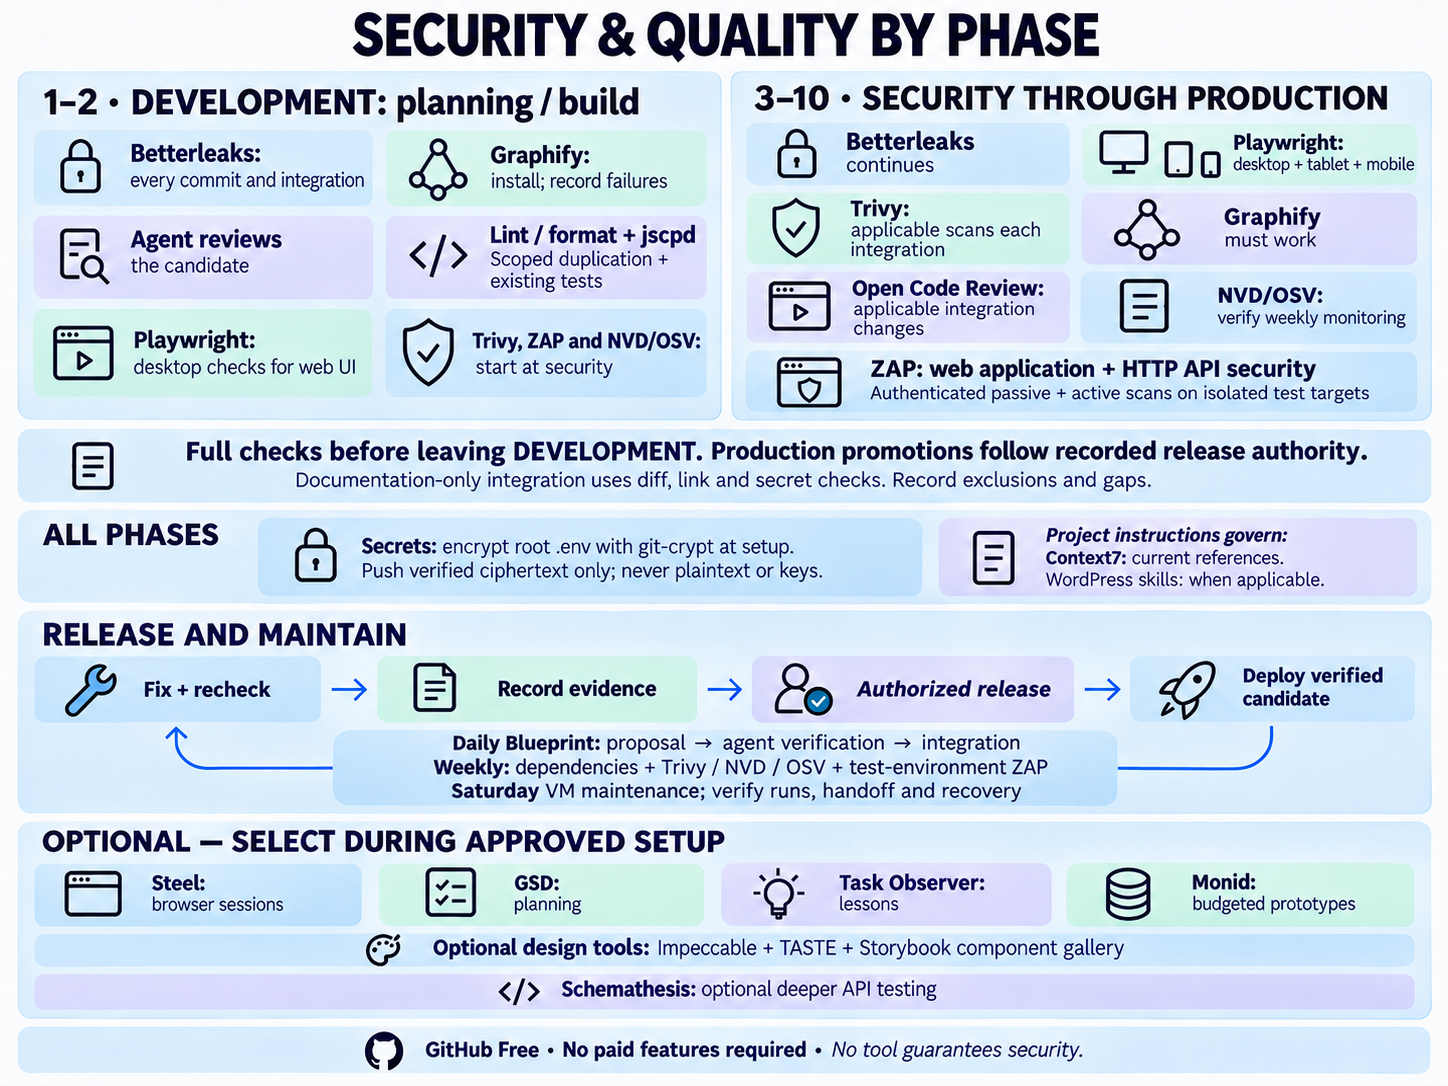
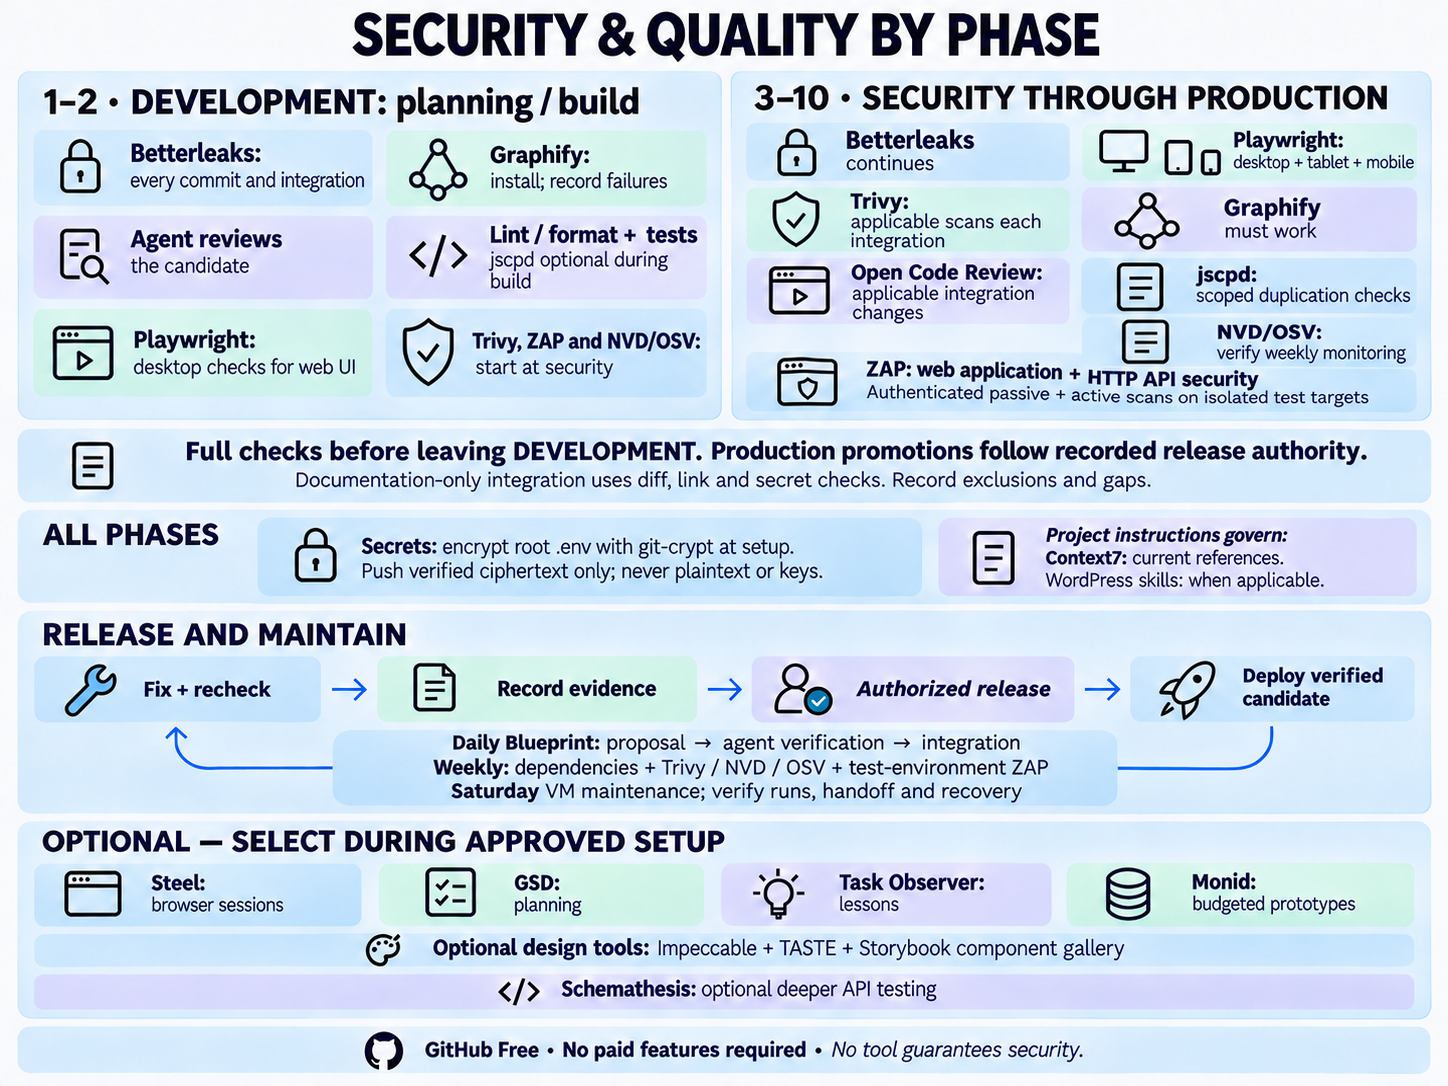
Scope duplication checks by development phase (#88)

diff --git a/README.md b/README.md
@@ -124,7 +124,7 @@ For a new interface or requested redesign, use the [design interview](template/d
 
 [TASTE](template/standards/optional-tools.md#taste) supports content-led art direction and screenshot critique for public-facing pages. Its optional pinned skill follows project brand, accessibility, performance, and truthful-content rules; application forms retain their established patterns.
 
-Optional [Storybook](template/standards/optional-tools.md#storybook) provides the live gallery using actual application components. Required applicable [jscpd duplication checks](template/standards/packages.md#duplication-checks) complement shared-control lint and Playwright; they do not guarantee reuse.
+Optional [Storybook](template/standards/optional-tools.md#storybook) provides the live gallery using actual application components. Phase-appropriate [jscpd duplication checks](template/standards/packages.md#duplication-checks) complement shared-control lint and Playwright; they do not guarantee reuse.
 
 Use the interface prompt in [Prompts](#prompts).
 
@@ -134,7 +134,7 @@ For UI work with selected Impeccable, agents use [browser iteration](template/de
 
 Tools complement application security controls; a clean report cannot guarantee security. [Security review](template/standards/security.md#security-review) governs coverage, findings, and risk decisions.
 
-![Security and quality by phase. Planning/build require secret scans, agent review, desktop Playwright for web UI, lint/format, scoped jscpd duplication checks and existing tests; install Graphify and record failures. From DEVELOPMENT security onward require working Graphify, applicable Trivy and ZAP application/API scans, delegated code review, full desktop/tablet/mobile coverage and NVD/OSV monitoring. Full checks precede leaving DEVELOPMENT; production promotions require review and recorded release authority. ZAP uses isolated test targets and authenticated coverage; existing tools remain required. Daily Blueprint proposals have verified agent handoff; dependency and applicable security checks stay weekly with authorized Saturday VM maintenance. Root .env uses git-crypt encryption at initial setup; only verified ciphertext may be pushed, never plaintext or keys. Steel, GSD, Task Observer, Monid and deeper Schemathesis API testing are optional; Impeccable, TASTE and Storybook are optional. No paid GitHub features are required and no tool guarantees security](assets/security-quality-flow.png)
+![Security and quality by phase. Planning/build require secret scans, agent review, desktop Playwright for web UI, lint/format and existing tests; jscpd is optional during planning/build; install Graphify and record failures. From DEVELOPMENT security onward require scoped duplication checks for supported source, working Graphify, applicable Trivy and ZAP application/API scans, delegated code review, full desktop/tablet/mobile coverage and NVD/OSV monitoring. Full checks precede leaving DEVELOPMENT; production promotions require review and recorded release authority. ZAP uses isolated test targets and authenticated coverage; existing tools remain required. Daily Blueprint proposals have verified agent handoff; dependency and applicable security checks stay weekly with authorized Saturday VM maintenance. Root .env uses git-crypt encryption at initial setup; only verified ciphertext may be pushed, never plaintext or keys. Steel, GSD, Task Observer, Monid and deeper Schemathesis API testing are optional; Impeccable, TASTE and Storybook are optional. No paid GitHub features are required and no tool guarantees security](assets/security-quality-flow.png)
 
 [Open the full-size security and quality graphic](assets/security-quality-flow.png). Weekly rescans and inventory-matched NVD/OSV advisory checks share the maintenance workflow. [Monitor health](template/standards/updates.md#advisory-monitoring-and-health) records verified scheduled execution, last successful checks and gaps; otherwise agents check during active sessions. Existing projects approve maintenance-rule changes under the recorded adoption policy.
 

diff --git a/template/standards/packages.md b/template/standards/packages.md
@@ -26,7 +26,7 @@ Adopting projects require repeatable, stack-appropriate lint and formatting chec
 
 ## Duplication checks
 
-For maintained source in [supported formats](https://github.com/kucherenko/jscpd/blob/master/FORMATS.md), configure project-local, pinned [jscpd](https://jscpd.dev/) alongside existing checks. Preserve equivalent verified coverage. Scan first-party source; explicitly exclude dependencies, generated output and vendored files. Scope repeated test/story examples deliberately. Record the version, configuration and command in `AGENTS.md`; run during affected development and candidate verification. Use local reports and ordinary CI exit codes, without required GitHub Code Scanning uploads or paid services.
+Duplication checking is optional during planning/build and required from `DEVELOPMENT: security` onward for maintained source in [supported formats](https://github.com/kucherenko/jscpd/blob/master/FORMATS.md); configure project-local, pinned [jscpd](https://jscpd.dev/) alongside existing checks. Preserve equivalent verified coverage. Scan first-party source; explicitly exclude dependencies, generated output and vendored files. Scope repeated test/story examples deliberately. Record the version, configuration and command in `AGENTS.md`; run during affected development and candidate verification. Use local reports and ordinary CI exit codes, without required GitHub Code Scanning uploads or paid services.
 
 Start with exact-copy detection. For existing code, use a reviewed [baseline and new-clone gate](https://jscpd.dev/guides/baseline); new projects may use a suitably scoped threshold. Wire the command into the existing verification workflow and prove that legitimate shared imports pass and a temporary component/utility copy fails, then remove the fixture. Review existing debt without mass refactoring; never automatically refresh a baseline or broaden exclusions just to pass. Reuse/extend canonical implementations where responsibilities match, or record a narrow justified exception. Similar-looking code need not share an abstraction.
 

diff --git a/template/standards/project.md b/template/standards/project.md
@@ -47,7 +47,7 @@ Apply [workspace migration](documentation.md#workspace-migration) during initial
 Record tool versions, locations and verification results for the current [checks by phase](security.md#checks-by-phase). Use `not applicable` only for exclusions the owning rule permits.
 
 1. Record [phase](phases.md), launch state, actual development/deployed commits, branches, triggers and services. Mark unconfigured items. Start new projects at planning and preserve the verified position of existing projects. Establish [integration](git-workflow.md) without disturbing unfinished work.
-2. Verify scripts/CI commands in `AGENTS.md` and the human quick start in README. Configure [Playwright](#playwright), selected [Steel](optional-tools.md#steel-browser), [lint/format](packages.md#linting-and-formatting), [duplication checks](packages.md#duplication-checks), selected [Storybook](optional-tools.md#storybook) and phase-appropriate [delegated review](#open-code-review).
+2. Verify scripts/CI commands in `AGENTS.md` and the human quick start in README. Configure [Playwright](#playwright), selected [Steel](optional-tools.md#steel-browser), [lint/format](packages.md#linting-and-formatting), phase-appropriate [duplication checks](packages.md#duplication-checks), selected [Storybook](optional-tools.md#storybook) and phase-appropriate [delegated review](#open-code-review).
 3. Establish the private index and applicable public/admin sources, destinations, builds and access under [documentation.md](documentation.md). Verify links and delivery.
 4. Follow [security setup](security.md) for project-root secrets, encryption, scanning, recovery inventory, restore evidence, synthetic data and private reporting. Record jurisdictions and assess [notices](legal.md) before collecting personal data. Inventory existing [offers](offering.md), policies and customer-facing pages.
 5. Configure and verify [maintenance](updates.md) for Blueprint, dependencies, advisories and hosts at the applicable phase. Record package rationale, schedules, actual run evidence and coverage.

diff --git a/template/standards/security.md b/template/standards/security.md
@@ -19,7 +19,8 @@ Light checks apply from setup; the full set switches on at `DEVELOPMENT: securit
 | [ZAP](#application-and-api-security-testing) for web applications and HTTP APIs | Plan scope; not yet installed | Install and verify; affected integrations, every production candidate, weekly test-environment scan |
 | [Delegated code review](git-workflow.md#delegated-code-review) (Open Code Review) | Agent's own review of the candidate | Applicable integration changes and every production promotion; exclusions follow the linked workflow |
 | [Playwright](project.md#playwright) for web UI | Installed at setup; desktop checks | Full desktop/tablet/mobile matrix |
-| [Lint/format](packages.md#linting-and-formatting), [duplication checks](packages.md#duplication-checks), existing tests and meaningful behavior checks | Required as applicable | Required as applicable |
+| [Lint/format](packages.md#linting-and-formatting), existing tests and meaningful behavior checks | Required as applicable | Required as applicable |
+| [Duplication checks](packages.md#duplication-checks) | Optional | Required for supported source; equivalent verified coverage accepted |
 | [Graphify](project.md#graphify) | Installed at setup; a failure is recorded, not blocking | Required working |
 | [Vulnerability intelligence](#vulnerability-intelligence) (NVD/OSV monitoring) | Not yet configured | Configure and verify under [updates.md](updates.md) |
 
